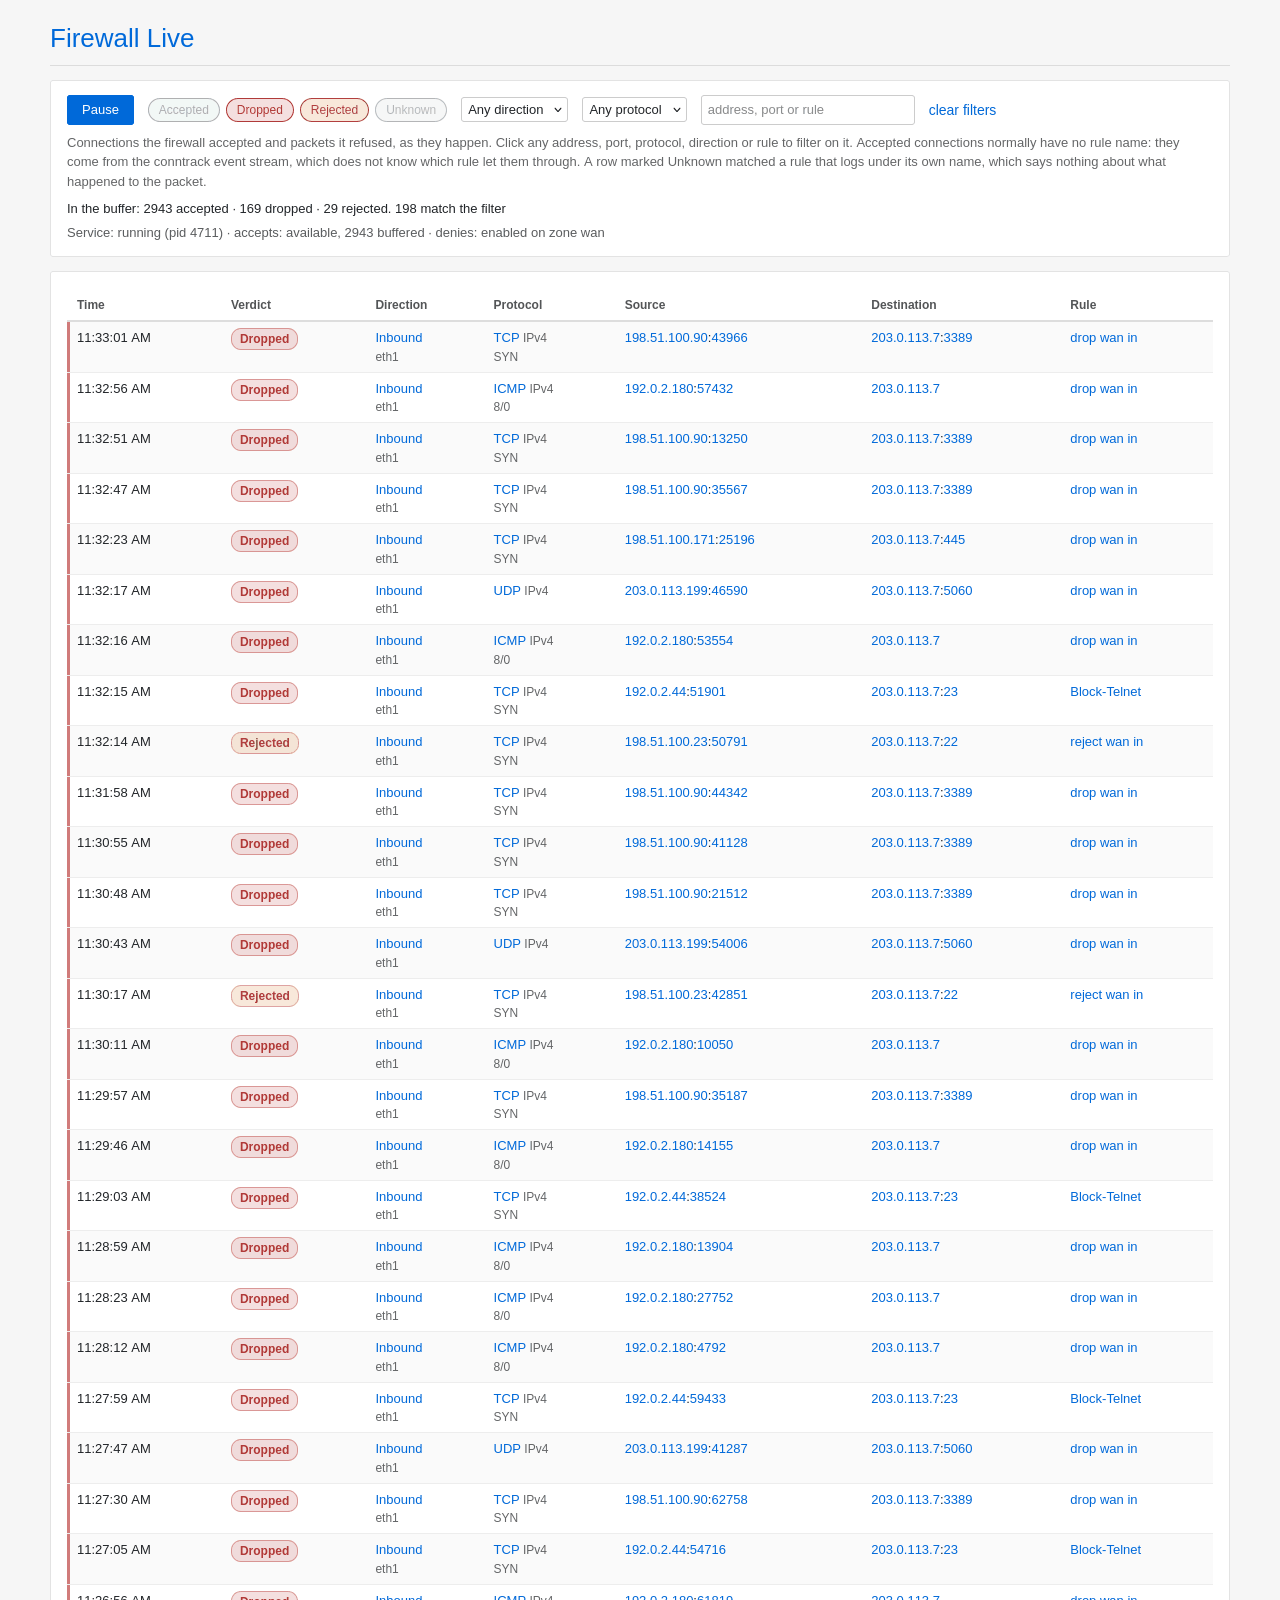
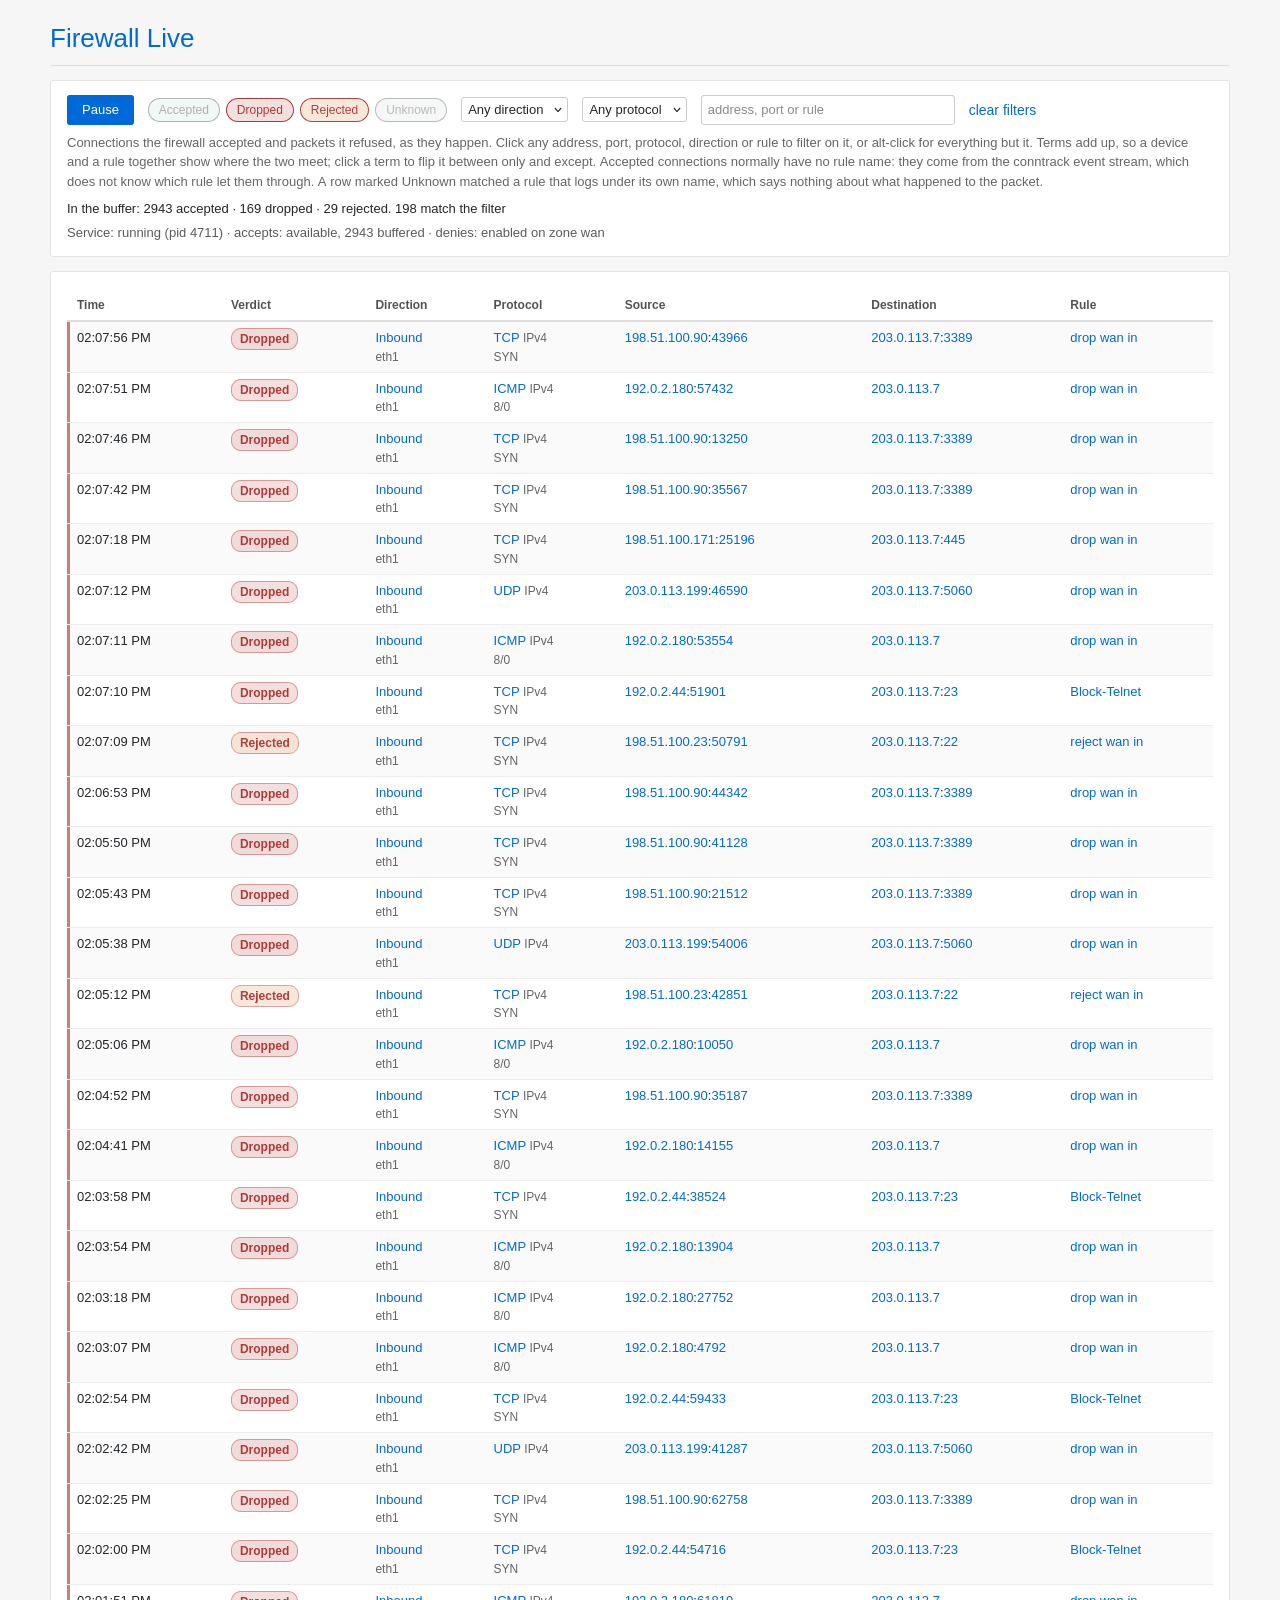
Let the filter take several terms, and exclude them

Changed region(s): [[0.0625, 0.0625, 0.875, 0.125]]

diff --git a/package/luci-app-fw-live/files/www/luci-static/resources/view/fw-live/main.js b/package/luci-app-fw-live/files/www/luci-static/resources/view/fw-live/main.js
@@ -70,6 +70,55 @@ function pollInterval() {
 	return v;
 }
 
+// The search box is a small query language, the same one fwlive-query parses:
+// terms separated by spaces all have to match, a minus in front of a term
+// excludes it, a comma inside one means any of, and quotes hold a term that
+// has a space in it. Everything here is about the string the router is handed,
+// so the two parsers have to agree.
+//
+// Only a minus at the head of a term negates, or Block-Internet would read as
+// a negated Internet.
+function parseTerms(str) {
+	const out = [];
+	let cur = '', inq = false, neg = false, seen = false;
+	for (let i = 0; i < str.length; i++) {
+		const c = str.charAt(i);
+		if (c === '"') { inq = !inq; seen = true; continue; }
+		if (c === ' ' && !inq) {
+			if (seen && cur) out.push({ text: cur, neg: neg });
+			cur = ''; neg = false; seen = false;
+			continue;
+		}
+		if (!seen && c === '-') { neg = true; seen = true; continue; }
+		cur += c;
+		seen = true;
+	}
+	if (seen && cur) out.push({ text: cur, neg: neg });
+	return out;
+}
+
+// What the backend keeps, so a value taken off a row is turned into the term
+// that will actually reach the buffer rather than one the sanitiser will bend
+// on the way. A quote cannot survive as part of a term, since that is what
+// delimits one.
+function cleanTerm(v) {
+	return String(v == null ? '' : v)
+		.replace(/"/g, '')
+		.replace(/[^0-9A-Za-z.:_/ ,>-]/g, '')
+		.replace(/\s+/g, ' ')
+		.trim();
+}
+
+function termText(t) {
+	const quoted = (t.text.indexOf(' ') >= 0 || t.text.charAt(0) === '-')
+		? '"' + t.text + '"' : t.text;
+	return (t.neg ? '-' : '') + quoted;
+}
+
+function termsToString(list) {
+	return list.map(termText).join(' ');
+}
+
 // Blocked site data and private windows make localStorage throw rather than
 // come back empty, so every access goes through these two.
 function stored(key) {
@@ -194,6 +243,13 @@ const CSS = '' +
 '.fwl-toggle { cursor:pointer; user-select:none; padding:2px 10px; border-radius:12px;' +
 '  border:1px solid currentColor; font-size:12px; line-height:18px; opacity:0.45 }' +
 '.fwl-toggle.on { opacity:1 }' +
+'.fwl-terms { display:flex; flex-wrap:wrap; gap:6px; align-items:center; margin-top:8px }' +
+'.fwl-term { display:inline-flex; align-items:center; gap:6px; padding:1px 8px; font-size:12px;' +
+'  line-height:18px; border-radius:10px; border:1px solid rgba(120,160,220,0.55);' +
+'  background:rgba(120,160,220,0.14) }' +
+'.fwl-term.neg { border-color:rgba(194,80,79,0.55); background:rgba(194,80,79,0.14) }' +
+'.fwl-term .fwl-x { cursor:pointer; opacity:0.6; font-weight:700 }' +
+'.fwl-term .fwl-x:hover { opacity:1 }' +
 '.fwl-paused { background:rgba(217,128,50,0.16) }' +
 '.fwl-new td, .fwl-new .td { animation:fwl-flash 1.2s ease-out }' +
 '@keyframes fwl-flash { from { background:rgba(120,160,220,0.28) } to { background:transparent } }' +
@@ -240,7 +296,10 @@ return view.extend({
 			type: 'text',
 			'class': 'cbi-input-text',
 			placeholder: _('address, port or rule'),
-			style: 'min-width:200px',
+			title: _('Terms are separated by spaces and all have to match. A minus in front ' +
+			         'of one excludes it, a comma inside one means any of, and quotes hold a ' +
+			         'term that has a space in it.'),
+			style: 'min-width:240px',
 			value: state.search
 		});
 
@@ -278,6 +337,11 @@ return view.extend({
 			click: function(ev) { ev.preventDefault(); clearFilters(); }
 		}, _('clear filters'));
 
+		// What the search box holds, one chip per term, so the minus in front
+		// of an excluded term is something to click rather than something to
+		// know about.
+		const termBox = E('div', { 'class': 'fwl-terms' });
+
 		function rowCount() {
 			return tableNode.childNodes.length - 1;
 		}
@@ -287,27 +351,31 @@ return view.extend({
 				tableNode.removeChild(tableNode.lastChild);
 		}
 
+		// The handler is given the event because alt-click is the shortcut for
+		// the opposite filter, everything but this value.
 		function link(text, title, fn) {
 			return E('a', {
 				href: '#',
 				title: title,
-				click: function(ev) { ev.preventDefault(); fn(); }
+				click: function(ev) { ev.preventDefault(); fn(ev); }
 			}, text);
 		}
 
+		const FILTER_HINT = _('Click to add this to the filter, alt-click for everything but it');
+
 		function endpoint(addr, port) {
 			const name = hostname(addr);
-			const line = E('div', {}, [ link(addr, _('Filter on this address'),
-				function() { setSearch(addr); }) ]);
+			const line = E('div', {}, [ link(addr, FILTER_HINT,
+				function(ev) { toggleTerm(addr, ev); }) ]);
 			if (port && port !== '-') {
 				line.appendChild(document.createTextNode(':'));
-				line.appendChild(link(port, _('Filter on this port'),
-					function() { setSearch(port); }));
+				line.appendChild(link(port, FILTER_HINT,
+					function(ev) { toggleTerm(port, ev); }));
 			}
 			if (!name)
 				return line;
 			return E('div', {}, [
-				E('div', {}, link(name, _('Filter on this host'), function() { setSearch(addr); })),
+				E('div', {}, link(name, FILTER_HINT, function(ev) { toggleTerm(addr, ev); })),
 				E('div', { 'class': 'fwl-sub' }, line)
 			]);
 		}
@@ -347,7 +415,7 @@ return view.extend({
 				E('td', { 'class': 'td' }, endpoint(e.saddr, e.sport)),
 				E('td', { 'class': 'td' }, endpoint(e.daddr, e.dport)),
 				E('td', { 'class': 'td' }, rule
-					? link(rule, _('Filter on this rule'), function() { setSearch(rule); })
+					? link(rule, FILTER_HINT, function(ev) { toggleTerm(rule, ev); })
 					: E('span', { style: 'opacity:0.45' }, '\u00b7'))
 			]);
 		}
@@ -359,6 +427,27 @@ return view.extend({
 				tableNode.insertBefore(buildRow(events[i], fresh), tableNode.childNodes[1] || null);
 			while (rowCount() > MAX_ROWS)
 				tableNode.removeChild(tableNode.lastChild);
+		}
+
+		function renderTerms() {
+			const list = parseTerms(state.search);
+			termBox.innerHTML = '';
+			termBox.style.display = list.length ? '' : 'none';
+			list.forEach(function(t, i) {
+				termBox.appendChild(E('span', { 'class': 'fwl-term' + (t.neg ? ' neg' : '') }, [
+					E('span', {
+						style: 'cursor:pointer',
+						title: t.neg ? _('Everything but this. Click for only this.')
+						             : _('Only rows with this. Click for everything but it.'),
+						click: function() { flipTerm(i); }
+					}, (t.neg ? '\u2212 ' : '') + t.text),
+					E('span', {
+						'class': 'fwl-x',
+						title: _('Remove this term'),
+						click: function() { dropTerm(i); }
+					}, '\u00d7')
+				]));
+			});
 		}
 
 		function syncControls() {
@@ -373,6 +462,7 @@ return view.extend({
 			protoSel.value = state.proto;
 			if (searchInput.value !== state.search)
 				searchInput.value = state.search;
+			renderTerms();
 			pauseBtn.textContent = state.paused ? _('Resume') : _('Pause');
 			pauseBtn.className = 'cbi-button' + (state.paused ? ' cbi-button-negative' : ' cbi-button-action');
 			clearLink.style.display = filtersActive() ? '' : 'none';
@@ -492,9 +582,41 @@ return view.extend({
 			refilter();
 		}
 
-		function setSearch(v) {
-			state.search = (state.search === v) ? '' : v;
+		function setTerms(list) {
+			state.search = termsToString(list);
 			refilter();
+		}
+
+		// Clicking a value that is already filtered on takes it back out, so a
+		// click and a second click on the same cell leave the page where it
+		// started, whichever way round the term was.
+		function toggleTerm(v, ev) {
+			const text = cleanTerm(v);
+			if (!text)
+				return;
+			const list = parseTerms(state.search);
+			for (let i = 0; i < list.length; i++) {
+				if (list[i].text.toLowerCase() === text.toLowerCase()) {
+					list.splice(i, 1);
+					return setTerms(list);
+				}
+			}
+			list.push({ text: text, neg: !!(ev && ev.altKey) });
+			return setTerms(list);
+		}
+
+		function flipTerm(i) {
+			const list = parseTerms(state.search);
+			if (!list[i])
+				return;
+			list[i].neg = !list[i].neg;
+			setTerms(list);
+		}
+
+		function dropTerm(i) {
+			const list = parseTerms(state.search);
+			list.splice(i, 1);
+			setTerms(list);
 		}
 
 		function clearFilters() {
@@ -552,13 +674,16 @@ return view.extend({
 					searchInput,
 					clearLink
 				]),
+				termBox,
 				E('p', { 'class': 'cbi-section-descr', style: 'margin:8px 0 0' },
 					_('Connections the firewall accepted and packets it refused, as they happen. ' +
-					  'Click any address, port, protocol, direction or rule to filter on it. ' +
-					  'Accepted connections normally have no rule name: they come from the conntrack ' +
-					  'event stream, which does not know which rule let them through. A row marked ' +
-					  'Unknown matched a rule that logs under its own name, which says nothing about ' +
-					  'what happened to the packet.')),
+					  'Click any address, port, protocol, direction or rule to filter on it, or ' +
+					  'alt-click for everything but it. Terms add up, so a device and a rule ' +
+					  'together show where the two meet; click a term to flip it between only ' +
+					  'and except. Accepted connections normally have no rule name: they come ' +
+					  'from the conntrack event stream, which does not know which rule let them ' +
+					  'through. A row marked Unknown matched a rule that logs under its own ' +
+					  'name, which says nothing about what happened to the packet.')),
 				summaryNode,
 				statusNode,
 				errorNode

diff --git a/tools/preview.py b/tools/preview.py
@@ -789,10 +789,16 @@ def main():
             shutil.rmtree(work, ignore_errors=True)
         return
 
+    # the third one is the query language: two terms, one of them an exclusion,
+    # so the chips under the bar are in the image the README points at
+    TERMS = '"drop wan in" -192.0.2.44'
     shots = [
         ("overview", [200, 0, 0, "", "", "", ""], {}),
         ("denied", [200, 0, 0, "drop,reject", "", "", ""],
          dict(filters={"verdict": ["drop", "reject"], "dir": "", "proto": "", "search": ""})),
+        ("filter", [200, 0, 0, "", "", "", TERMS],
+         dict(filters={"verdict": ["accept", "drop", "reject", "unknown"],
+                       "dir": "", "proto": "", "search": TERMS})),
     ]
     DOCS.mkdir(exist_ok=True)
     if args.dark:

diff --git a/README.md b/README.md
@@ -1,4 +1,4 @@
-# luci-app-fw-live 1.0.9
+# luci-app-fw-live 1.0.10
 
 A live view of what your firewall is accepting and refusing, for OpenWrt.
 Connections appear as they happen, under **Status → Firewall Live**.
@@ -9,9 +9,10 @@ flow offloading is untouched.
 
 ![Everything the firewall is doing, newest first](docs/live-overview.png)
 
-Click any address, port, protocol, direction or rule to filter on it. **Pause**
-freezes the tail without losing anything; resuming delivers what arrived in the
-meantime.
+Click any address, port, protocol, direction or rule to filter on it, or
+alt-click to leave it out. Filters add up, so a device and a rule together show
+only where the two meet: see [Filtering](#filtering). **Pause** freezes the
+tail without losing anything; resuming delivers what arrived in the meantime.
 
 ![The same page filtered down to what was refused](docs/live-denied.png)
 
@@ -58,13 +59,13 @@ architecture independent, so the same file works on any target.
 
 OpenWrt 25.12 and newer:
 
-    scp luci-app-fw-live-1.0.9-r1.apk root@192.168.1.1:/tmp/
-    ssh root@192.168.1.1 'apk add --allow-untrusted /tmp/luci-app-fw-live-1.0.9-r1.apk'
+    scp luci-app-fw-live-1.0.10-r1.apk root@192.168.1.1:/tmp/
+    ssh root@192.168.1.1 'apk add --allow-untrusted /tmp/luci-app-fw-live-1.0.10-r1.apk'
 
 OpenWrt 24.10 and older:
 
-    scp luci-app-fw-live_1.0.9-1_all.ipk root@192.168.1.1:/tmp/
-    ssh root@192.168.1.1 'opkg install /tmp/luci-app-fw-live_1.0.9-1_all.ipk'
+    scp luci-app-fw-live_1.0.10-1_all.ipk root@192.168.1.1:/tmp/
+    ssh root@192.168.1.1 'opkg install /tmp/luci-app-fw-live_1.0.10-1_all.ipk'
 
 **Without a package manager**, copy the source tree to the router and run
 `install.sh` on it. `install.sh --remove` undoes it.
@@ -263,6 +264,34 @@ scanner on the same subnet as your wan address reads as Local.
 
 The summary line counts the whole buffer rather than the page, so it stays
 meaningful while a filter is on.
+
+### Filtering
+
+Click any value in the table to filter on it, or alt-click to filter it out.
+Each click adds a term, and clicking the same value again takes it back out.
+
+![Two terms at once, one of them an exclusion](docs/live-filter.png)
+
+The terms in force appear as chips under the bar. Clicking a chip flips it
+between **only this** and **everything but this**; the × drops it. The box they
+came from takes the same thing typed by hand:
+
+| typed | means |
+| --- | --- |
+| `192.168.1.31` | rows mentioning that anywhere |
+| `192.168.1.31 Block-Internet` | both have to match |
+| `-192.168.1.31` | rows not mentioning it |
+| `192.168.1.31,192.168.1.44` | either one counts |
+| `"reject wan out"` | one term with a space in it |
+
+A term is matched as a case insensitive substring against the addresses, the
+ports, the interfaces, the rule and the protocol flags, so a bare port number
+finds both ends of it and `wlan0` finds one bridge port. Quotes are what keep a
+rule name or a zone prefix in one piece, and the page adds them for you when
+you click one.
+
+The verdict chips, the direction and the protocol are separate controls, and
+everything you set narrows together. **clear filters** puts all of it back.
 
 ## Configuration
 

diff --git a/CLAUDE.md b/CLAUDE.md
@@ -301,6 +301,21 @@ from the front, so the newest N matching lines are the last N to arrive. The
 query keeps a ring per source and merges the two. Busybox awk has no `asort`
 and an insertion sort over a full buffer would be far too slow.
 
+**The search box is a query language, and it is parsed twice.** Terms
+separated by spaces all have to match, a minus in front of one excludes it, a
+comma inside one means any of, and quotes hold a term with a space in it, which
+every fw4 zone prefix and every merged rule path has. `main.js` parses it to
+draw the chips and to add or remove a term on a click; `fwlive-query` parses it
+to filter. The two have to agree, so `tests/run-tests.sh` builds a term string
+with the view's own helpers and feeds that exact string to the query rather
+than testing each side against a copy of the other. The allowed character set
+is written out in three places, the view's `cleanTerm`, the ucode sanitiser and
+`fwlive-query`'s `sed`, and `>` is in it because a merged row's rule column is
+a path, `A > B`, and clicking it has to be able to ask for that string, which
+it could not before. None of the three added characters mean anything to the
+shell inside the single quotes the ucode backend wraps them in, and the one
+that would, `'`, is not in the set.
+
 **ubus message size.** Everything the backend returns crosses ubus. The page
 sends the two cursors it holds, so a 2 second poll carries a handful of rows
 rather than the whole page again. The limit is capped at 1000 events.
